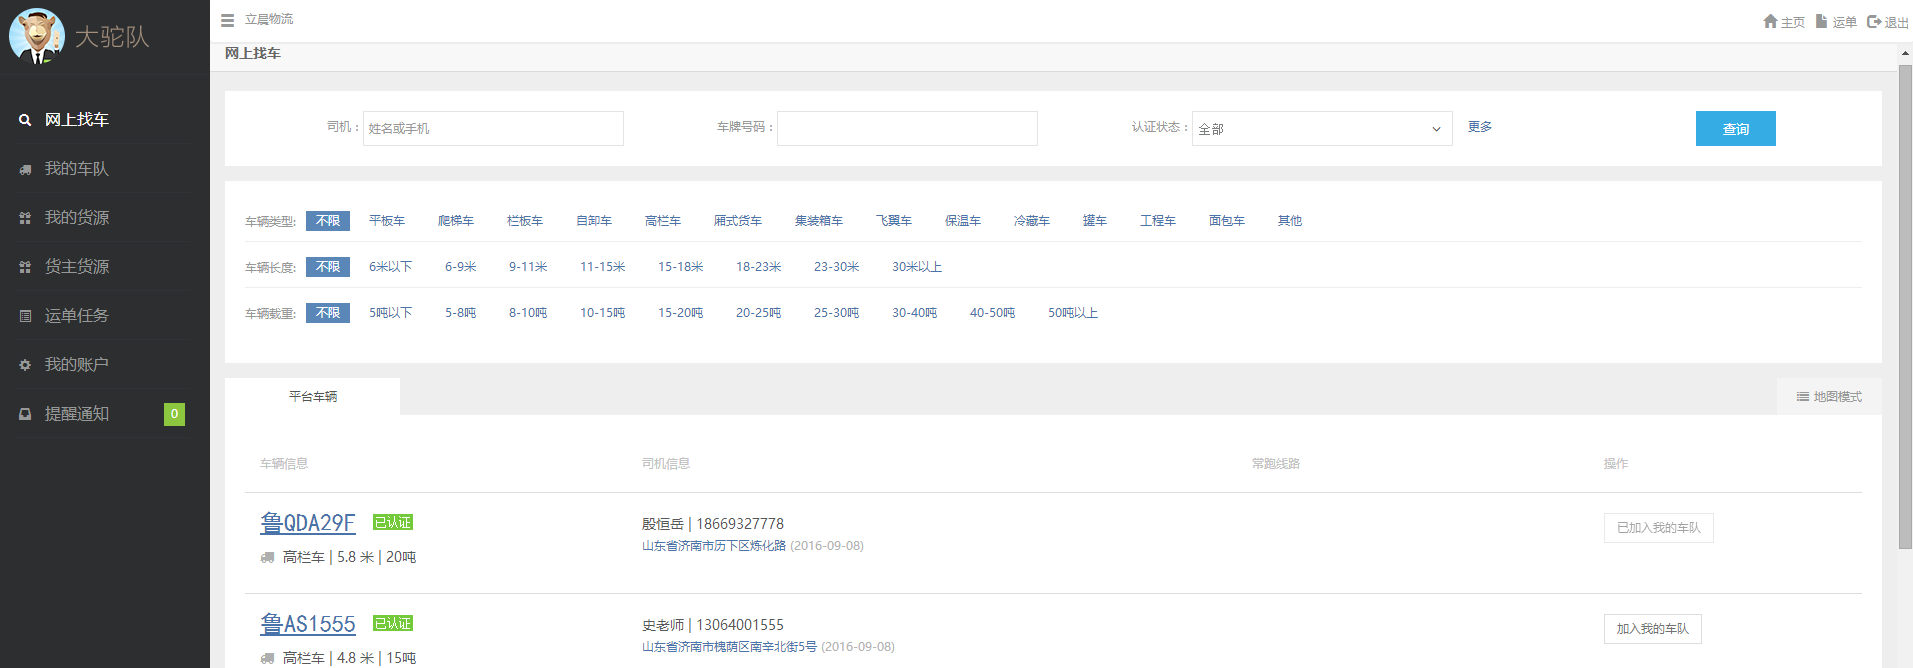
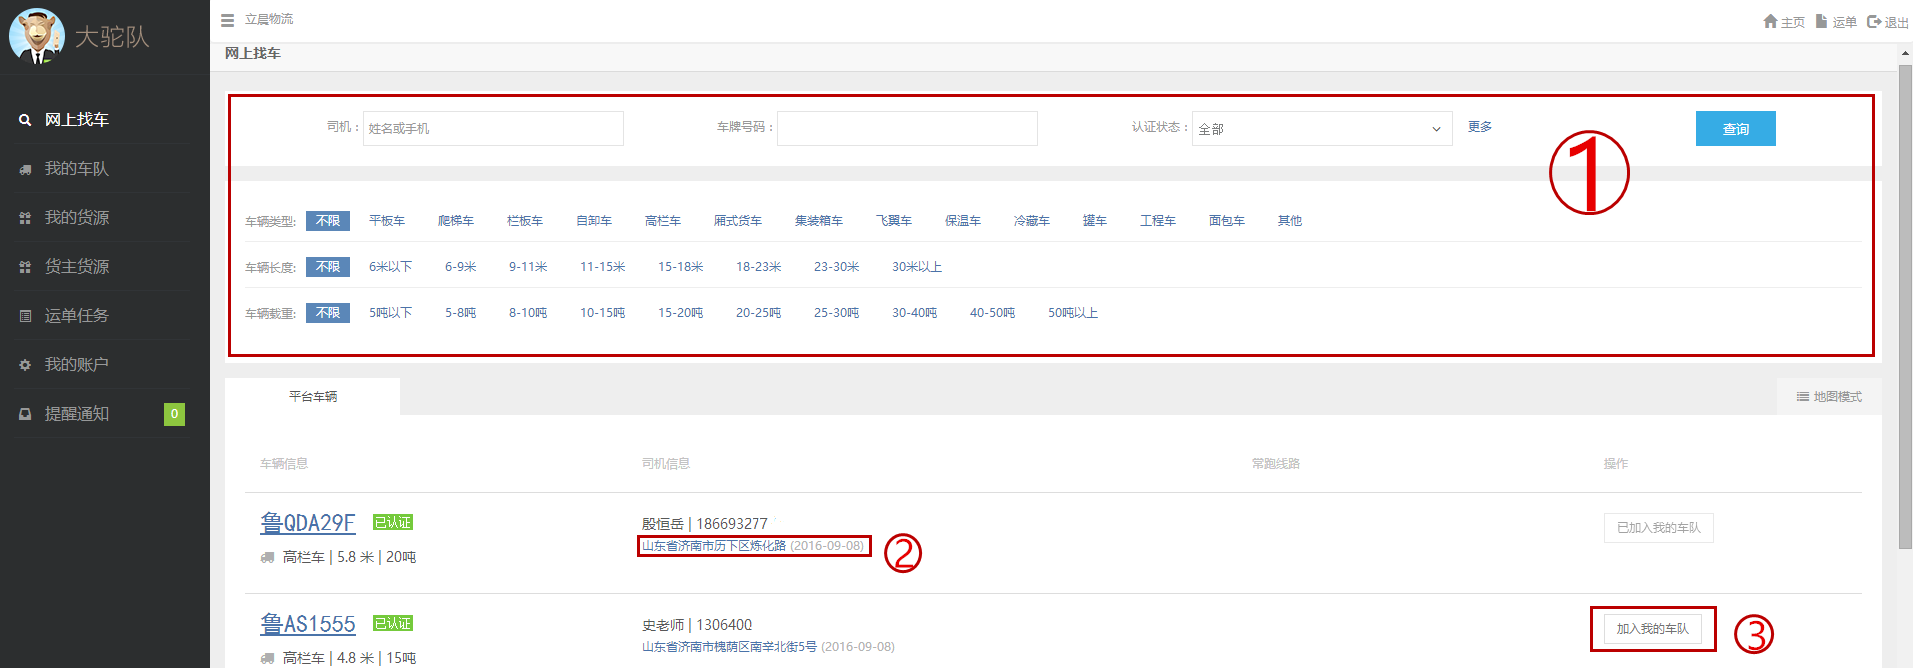
Updates 承运商·电脑端/4·网上找车.md
Auto commit by GitBook Editor

diff --git a/承运商·电脑端/4·网上找车.md b/承运商·电脑端/4·网上找车.md
@@ -1,2 +1,16 @@
 ## **4·网上找车**
 
+![](/assets/QQ截图20160919092438.png)
+
+**①根据姓名或手机号或车牌号号码查询到司机加入车队**
+
+**   也可筛选车辆的类型、长度、载重**
+
+**②查看司机行驶轨迹**
+
+**③邀请司机加入到我的车队**
+
+![](/assets/QQ截图20160920135908.png)
+
+**根据26个英文字母在地图上可查看平台所有车辆、我的车辆、运输中的司机所在位置**
+
